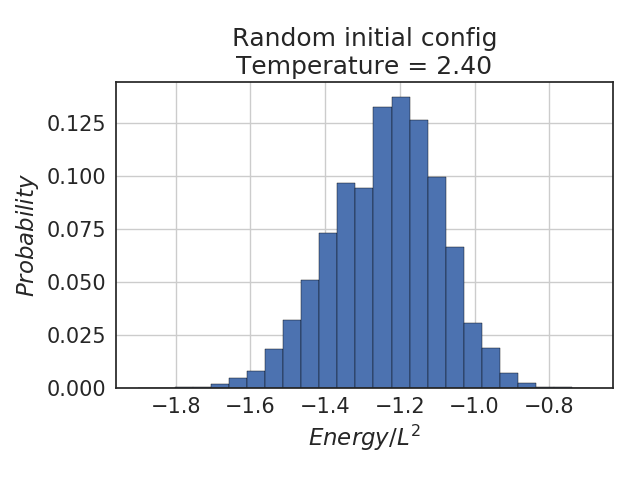
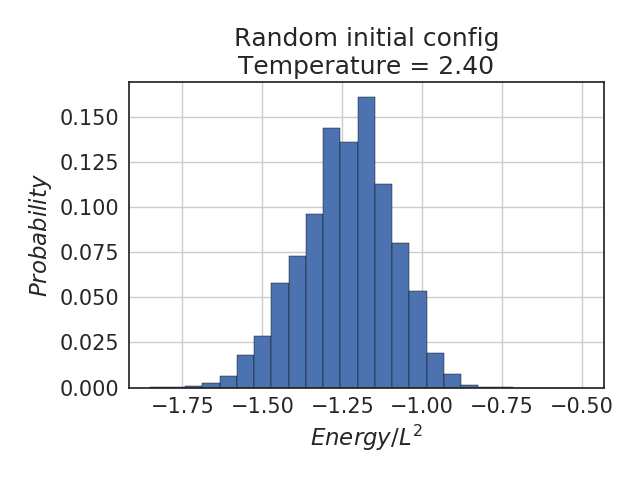
new bloean for new intialization per temerpature seems to work

diff --git a/project4/code/main.cpp b/project4/code/main.cpp
@@ -62,10 +62,10 @@ int main(int argc, char* argv[])
   TimeStart = MPI_Wtime();
 
   //    initialise energy and magnetization
-  E = M = 0.;
-
-  //if (!initializationNewTempereture)
-    //project4b.initialize(n_spins, spin_matrix, E, M, orderingFixed, idum);
+  if (!initializationNewTempereture){
+    E = M = 0.;
+    project4b.initialize(n_spins, spin_matrix, E, M, orderingFixed, idum);
+  }
 
   for ( double temperature = initial_temp; temperature <= final_temp+temp_step; temperature+=temp_step){
     // setup array for possible energy changes
@@ -75,8 +75,10 @@ int main(int argc, char* argv[])
     for( int i = 0; i < 6; i++) average[i] = 0.;
     for( int i = 0; i < 6; i++) total_average[i] = 0.;
 
-    //if (initializationNewTempereture)
+    if (initializationNewTempereture){
+        E = M = 0.;
         project4b.initialize(n_spins, spin_matrix, E, M, orderingFixed, idum);
+    }
 
 
     // start Monte Carlo computation
